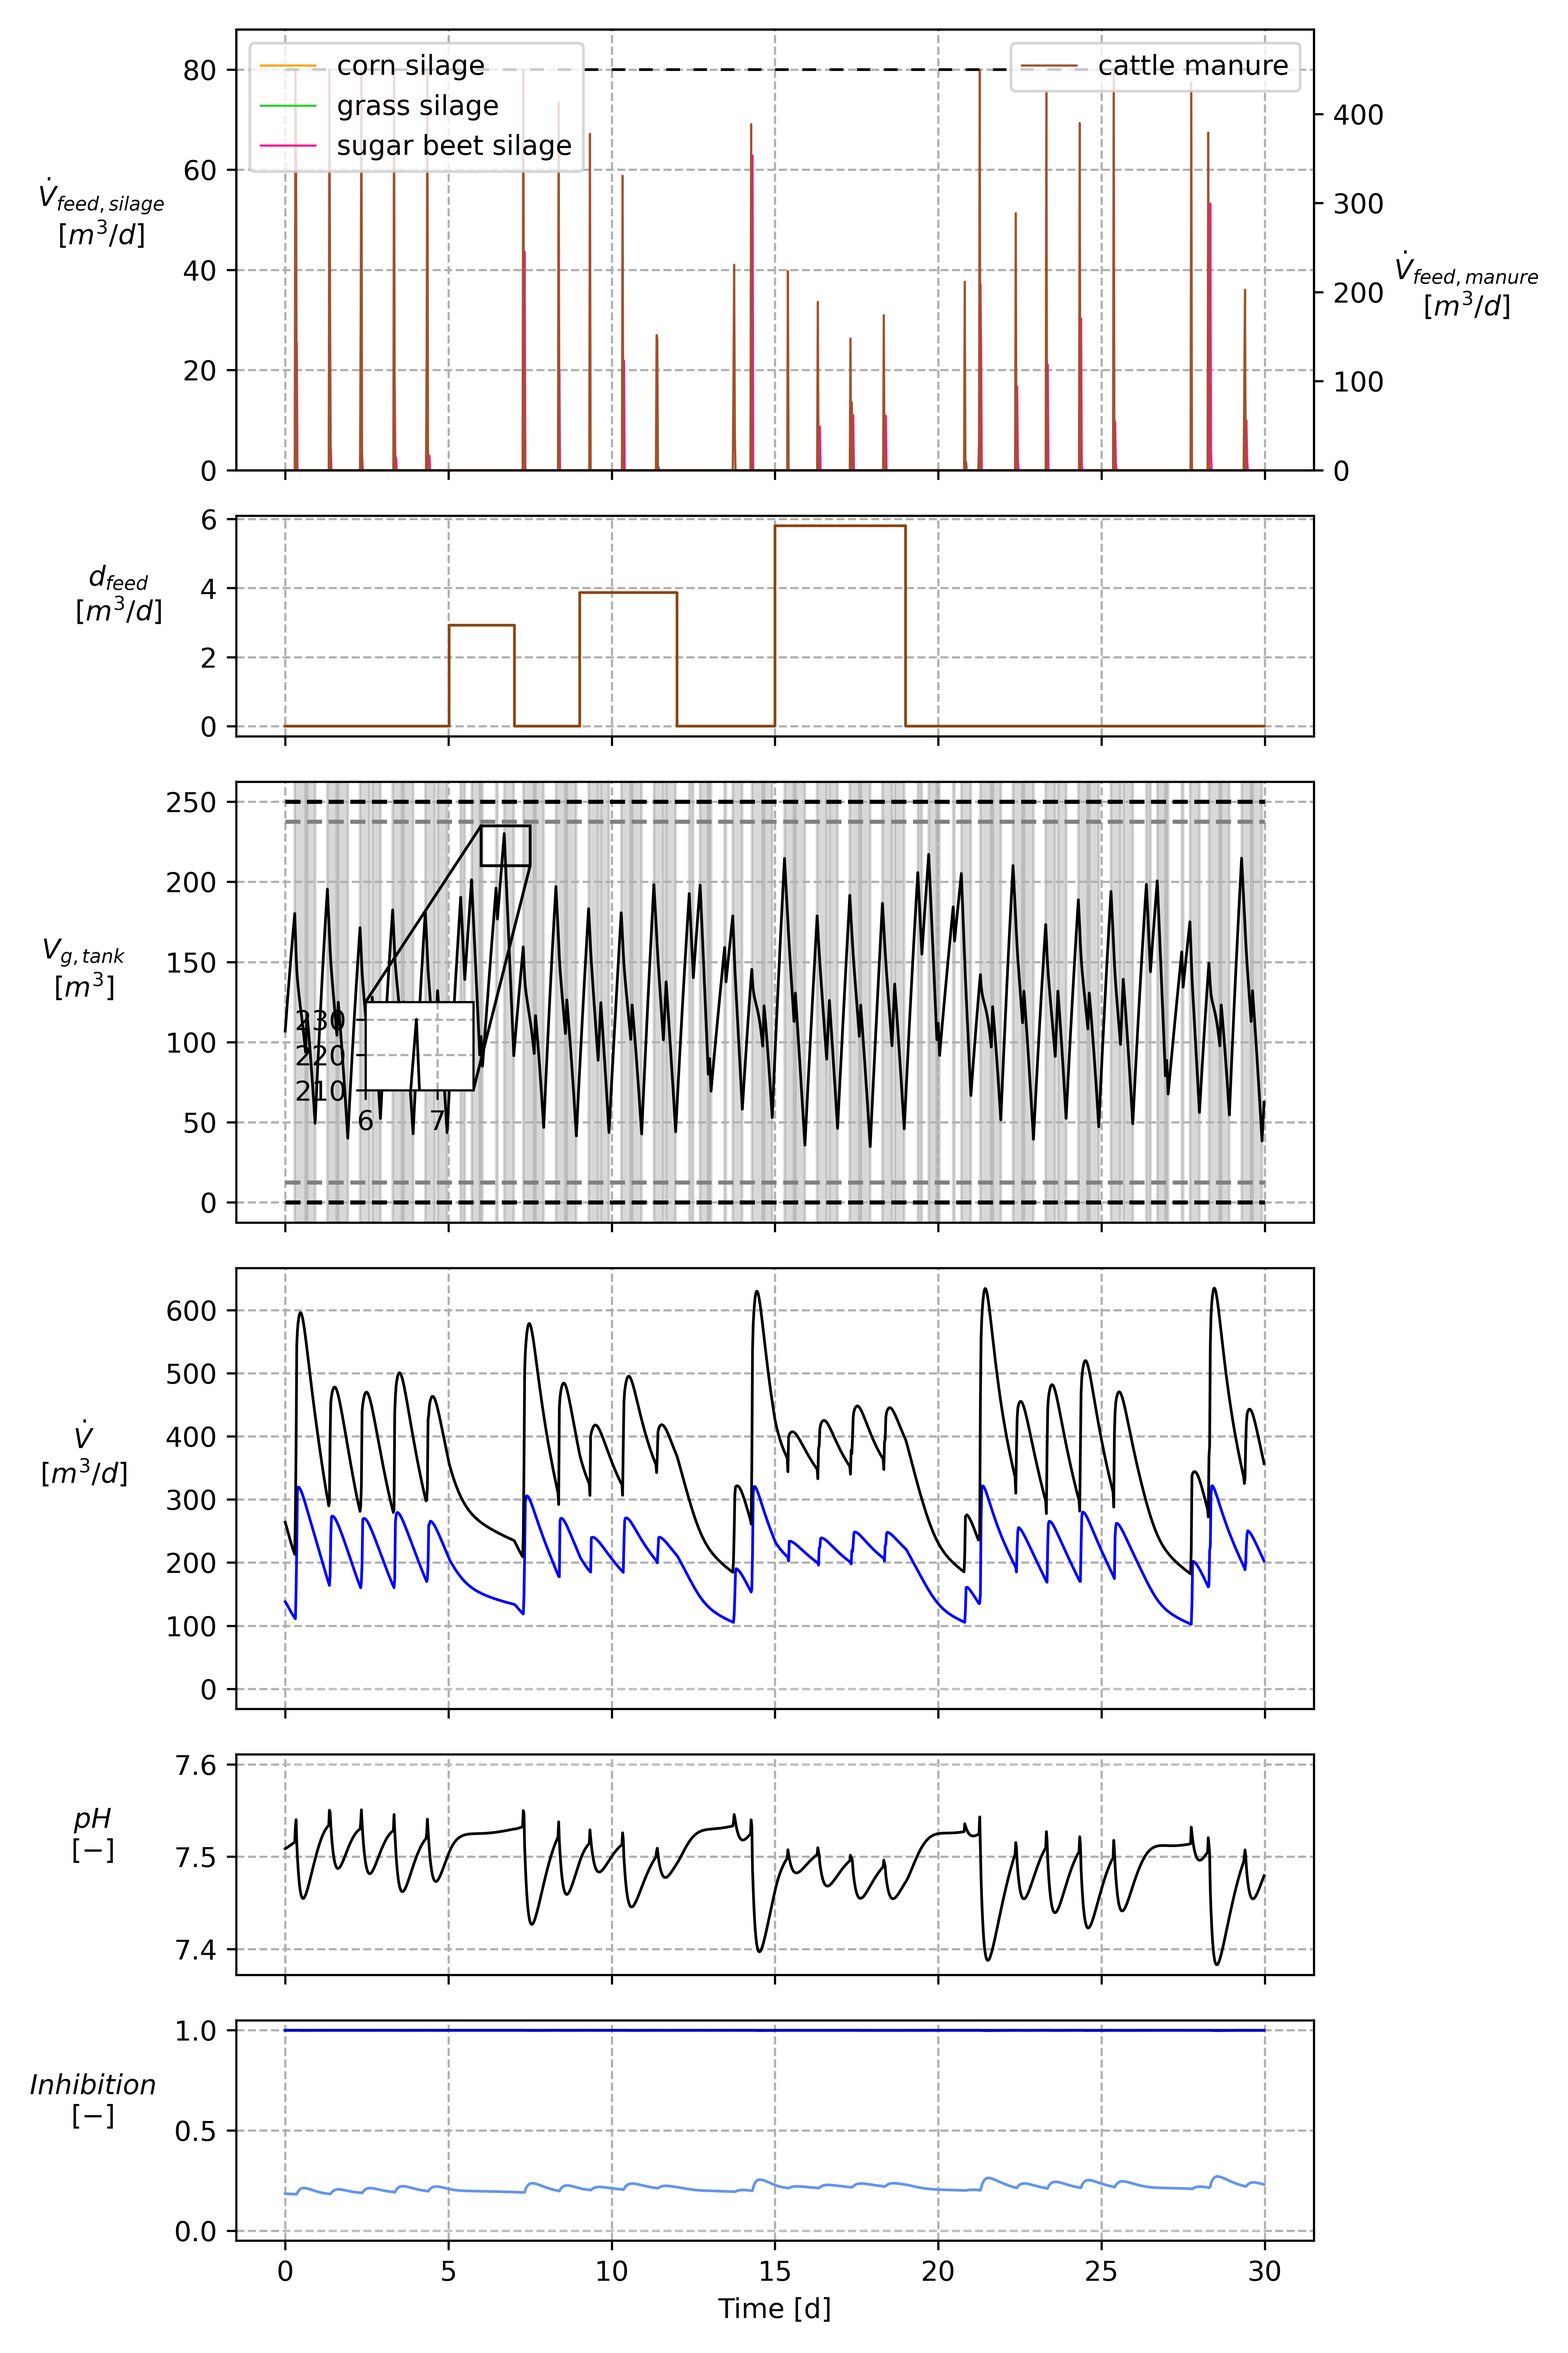
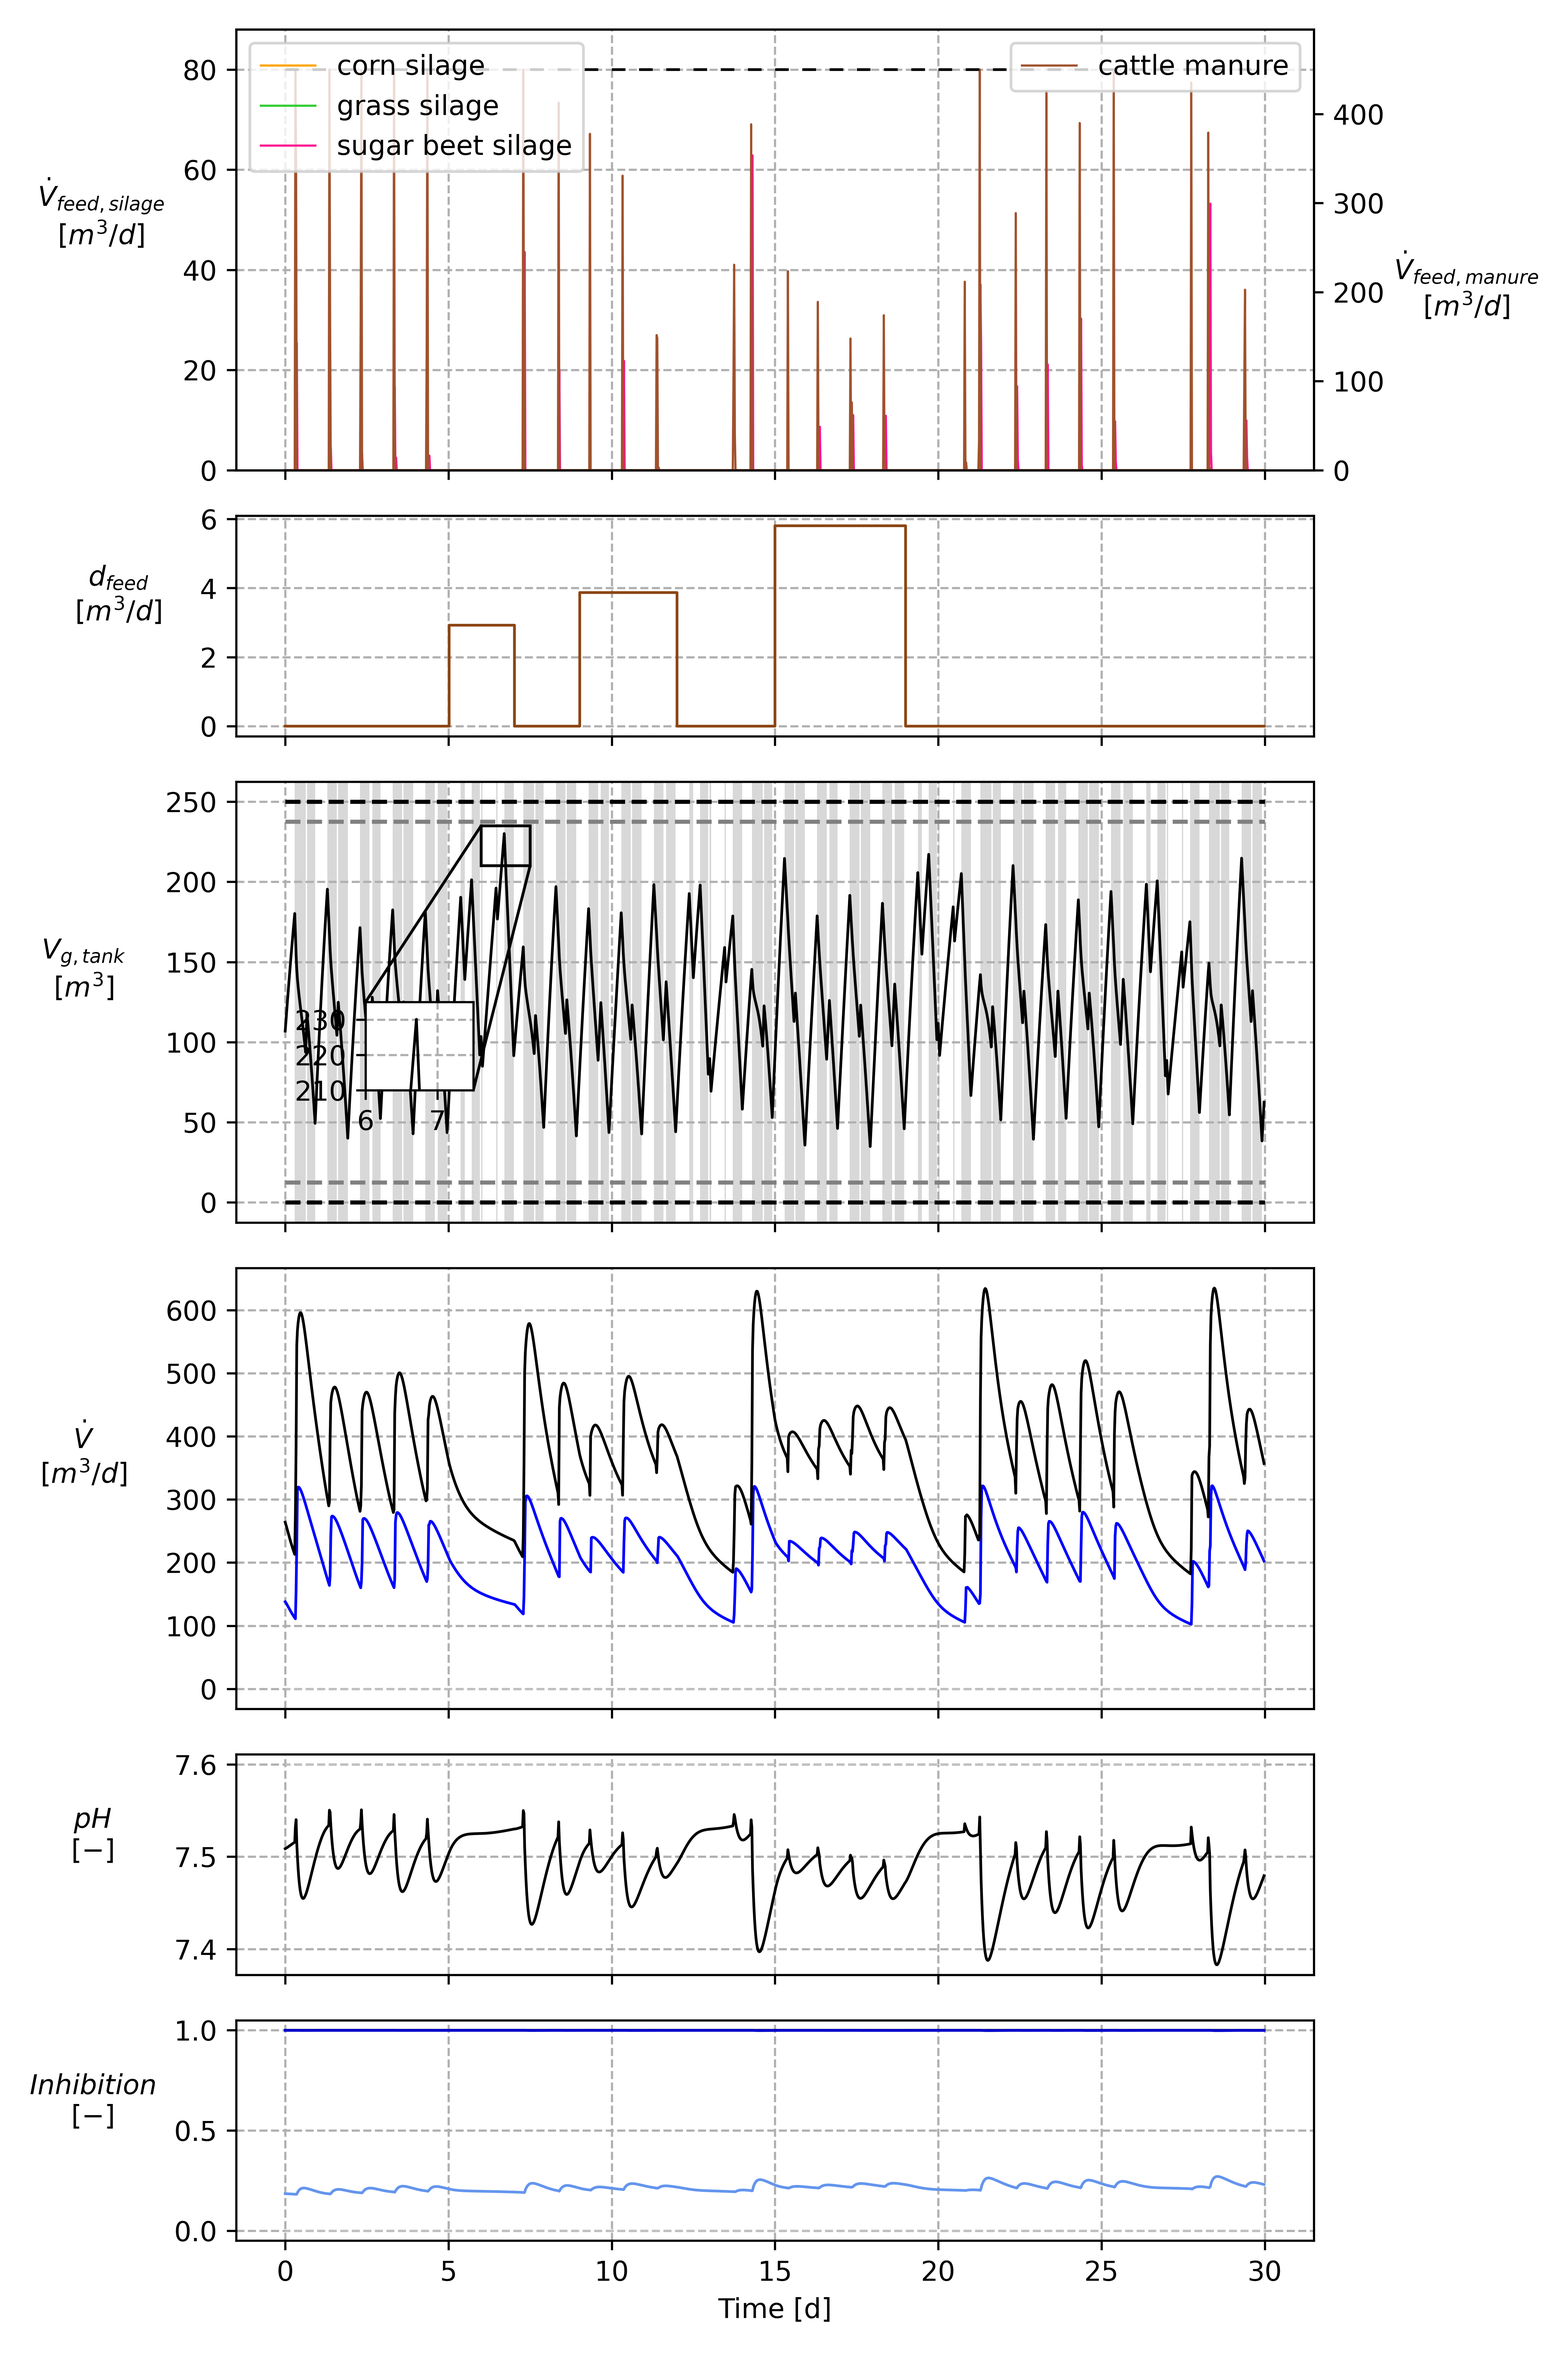
avoid overlapping axvspan with 0 linewidth

Changed region(s): [[0.1875, 0.3125, 0.8125, 0.5312]]

diff --git a/ad_meal_prep_control/postprocessing.py b/ad_meal_prep_control/postprocessing.py
@@ -493,7 +493,7 @@ class PostProcessing:
                     end = x[i]
 
                     for ax_idx in color_background_indices:
-                        axes[ax_idx].axvspan(start[0], end[0], color="gray", alpha=0.3)
+                        axes[ax_idx].axvspan(start[0], end[0], color="gray", alpha=0.3, lw=0)
 
         if time_range is not None:
             plt.setp(axes, xlim=time_range)
